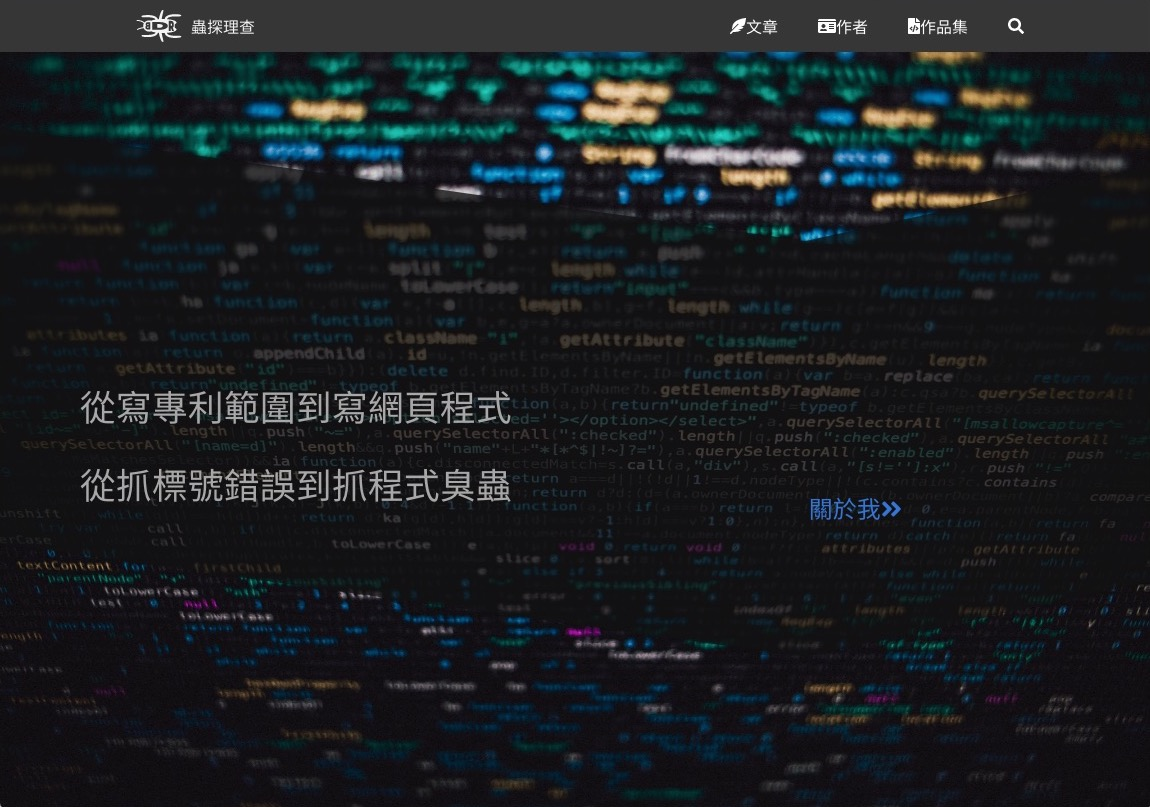
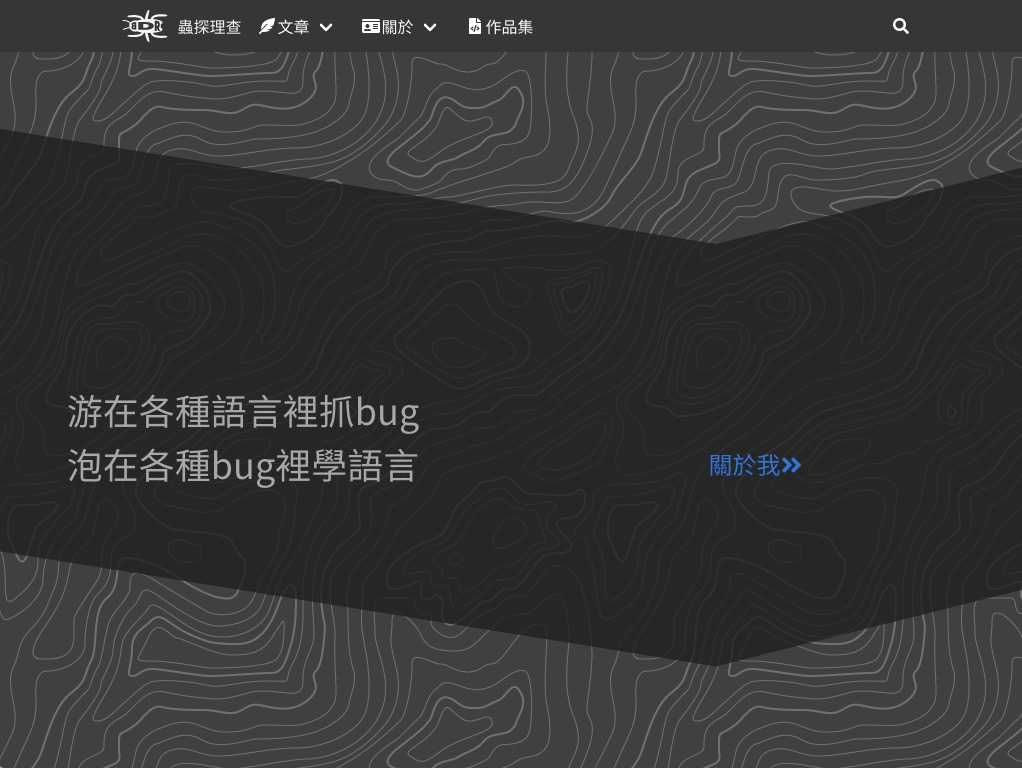
:zap: update: update slogan

diff --git a/src/pages/index.js b/src/pages/index.js
@@ -1,6 +1,5 @@
 import React from "react"
 import { graphql, useStaticQuery } from "gatsby"
-import { convertToBgImage } from "gbimage-bridge"
 import { getSrc } from "gatsby-plugin-image"
 import Layout from "../components/Layout/layout"
 import Seo from "../components/Seo/seo"
@@ -52,11 +51,6 @@ const IndexPage = () => {
             }
           }
         }
-        indexHeroImage: file(relativePath: { eq: "home-background.jpg" }) {
-          childImageSharp {
-            gatsbyImageData(transformOptions: { fit: COVER, cropFocus: CENTER })
-          }
-        }
         indexCapture: file(relativePath: { eq: "index-capture.jpg" }) {
           childImageSharp {
             gatsbyImageData(layout: FIXED)
@@ -71,15 +65,10 @@ const IndexPage = () => {
     `
   )
 
-  //第一個是手機用的圖片的object，第二個是桌面的圖片的object
-  //...是把object的大括號拆掉，和media的attribute接在一起。最後再包在大括號裡面，就是一個object了。
-  const imageData = data.indexHeroImage.childImageSharp.gatsbyImageData
-  const bgImage = convertToBgImage(imageData)
-
   // 要給seo用的，讓首頁被分享的時候有截圖
   const imageURLOfSeo =
     data.site.siteMetadata.siteUrl + getSrc(data.indexCapture.childImageSharp)
-  const slogan = ["從寫專利範圍到寫網站程式", "從抓標號錯誤到抓程式臭蟲"]
+  const slogan = ["浸泡在各種語言裡抓bug", "游走在各種bug間學語言"]
 
   //layout每一頁都有，裡面有navbar
   //seo用來處理metadata
@@ -95,7 +84,7 @@ const IndexPage = () => {
         pageURL="https://www.bdr.rocks/"
         isArticle={false}
       />
-      <HeroIndex bgImage={bgImage} slogan={slogan} />
+      <HeroIndex slogan={slogan} />
       <CardList>
         {data.allContentfulBlog.edges.map((element, i) => {
           // console.log('index',`index-page-${element.node.slug.toLowerCase()}`)
@@ -106,6 +95,7 @@ const IndexPage = () => {
             />
           )
         })}
+        
       </CardList>
       <div className="mt2">
         <SubscribeContainer />

diff --git a/gatsby-config.js b/gatsby-config.js
@@ -10,7 +10,7 @@ require("dotenv").config({
 module.exports = {
   siteMetadata: {
     title: `蟲探理查`,
-    description: `從寫專利範圍到寫網頁程式，從抓標號錯誤到抓程式臭蟲`,
+    description: `浸泡在各種語言裡抓bug，游走在各種bug間學語言`,
     author: `黃瑞成`,
     image: `/icons/icon-512x512.png`,
     siteUrl: `https://www.bdr.rocks`,
@@ -61,8 +61,7 @@ module.exports = {
     `gatsby-plugin-image`,
     `gatsby-plugin-sharp`,
     `gatsby-transformer-sharp`,
-    //這個是gatsby offline在用的plugin
-    //icon主要是用來顯示在標題列的圖案
+    //icon主要是給pwa用的
     {
       resolve: `gatsby-plugin-manifest`,
       options: {
@@ -71,11 +70,25 @@ module.exports = {
         start_url: `/`,
         background_color: `#663399`,
         theme_color: `#663399`,
-        display: `minimal-ui`,
+        display: `standalone`,
         icon: `src/images/icon.png`, // This path is relative to the root of the site.
+        icon_options: {
+          // For all the options available,
+          // please see the section "Additional Resources" below.
+          purpose: `any maskable`,
+        },
+        cache_busting_mode: 'none',
       },
     },
-    `gatsby-plugin-offline`,
+    //這個是gatsby offline在用的plugin
+    {
+      resolve: 'gatsby-plugin-offline',
+      options: {
+         workboxConfig: {
+            globPatterns: ['**/*.{svg,png}']
+         }
+      }
+   },
     //要處理svg的話要用這個plugin
     {
       resolve: "gatsby-plugin-react-svg",

diff --git a/src/components/Hero/HeroIndex.js b/src/components/Hero/HeroIndex.js
@@ -1,6 +1,5 @@
 import React from "react"
 import { Link } from "gatsby"
-// import BackgroundImage from "gatsby-background-image"
 import { FontAwesomeIcon } from "@fortawesome/react-fontawesome"
 import { faAngleDoubleRight } from "@fortawesome/free-solid-svg-icons"
 
@@ -8,7 +7,6 @@ import { faAngleDoubleRight } from "@fortawesome/free-solid-svg-icons"
 const HeroIndex = ({ slogan }) => {
   return (
     <section className="w-100">
-      
       <div className="hero is-fullheight-with-navbar hero-background-svg">
         <div className="w-100 h-100 absolute clip-path-hero flex flex-column justify-center">
           <div className="columns w-100">
@@ -24,7 +22,7 @@ const HeroIndex = ({ slogan }) => {
               <div className="mt2 mt5-ns">
                 <Link to="/about/#bio" replace={false} className="f3-l f4-m f5">
                   關於我
-                  <FontAwesomeIcon icon={faAngleDoubleRight} />
+                  <FontAwesomeIcon className="ml1" icon={faAngleDoubleRight} />
                 </Link>
               </div>
             </footer>

diff --git a/src/pages/404.js b/src/pages/404.js
@@ -1,29 +1,10 @@
 import React from "react"
-import { graphql, useStaticQuery } from "gatsby"
-import { convertToBgImage } from "gbimage-bridge"
-//import BackgroundImage from "gatsby-background-image"
 import Layout from "../components/Layout/layout"
 import Seo from "../components/Seo/seo"
 import GoBack from "../components/GoBack/GoBack"
 
 //用來放404的頁面
 const NotFoundPage = () => {
-  //用來抓404背景圖
-  const data = useStaticQuery(
-    graphql`
-      query fourZeroFourQuery {
-        fourZeroFourImage: file(relativePath: { eq: "404image.jpg" }) {
-          childImageSharp {
-            gatsbyImageData(transformOptions: { fit: COVER, cropFocus: CENTER })
-          }
-        }
-      }
-    `
-  )
-
-  //抓到的背景圖，分成手機和桌面，存成array，供傳給background image component來用
-  const imageData = data.fourZeroFourImage.childImageSharp.gatsbyImageData
-  const bgImage = convertToBgImage(imageData)
 
   //背景圖包住內容和一個回上一頁的按鈕
   return (

diff --git a/src/components/Card/CardList.js b/src/components/Card/CardList.js
@@ -1,4 +1,7 @@
 import React from "react"
+import { Link } from "gatsby"
+import { FontAwesomeIcon } from "@fortawesome/react-fontawesome"
+import { faAngleDoubleRight } from "@fortawesome/free-solid-svg-icons"
 
 //在indexpage中，用來裝cards的container
 const CardList = props => {
@@ -10,6 +13,12 @@ const CardList = props => {
       <section className="w-100 w-90-m w-80-l mw8 index-card-container pa3-ns pa2">
         {props.children}
       </section>
+      <footer className="w-100 w-90-m w-80-l mw8 ph3-ns mb3 pa2 tr">
+        <Link className="f4 pointer" to="/blog-list/page-3/">
+          較舊
+          <FontAwesomeIcon className="ml1" icon={faAngleDoubleRight} />
+        </Link>
+      </footer>
     </section>
   )
 }

diff --git a/src/components/Meter/MeterSlider.js b/src/components/Meter/MeterSlider.js
@@ -82,7 +82,8 @@ const MeterSlider = ({ fireNumber }) => {
           className="pr2 f6 f5-l"
           style={{ color: iceColor }}
         >
-          專業
+          <p>技術</p>
+          <p>專業</p>
         </span>
         <button
           key="meter-slide-button-ice"
@@ -105,7 +106,8 @@ const MeterSlider = ({ fireNumber }) => {
           className="pl2 f6 f5-l"
           style={{ color: fireColor }}
         >
-          生活
+          <p>生活</p>
+          <p>娛樂</p>
         </span>
       </div>
     </div>

diff --git a/src/components/Card/Card.js b/src/components/Card/Card.js
@@ -47,7 +47,7 @@ const Card = ({ node }) => {
         <footer className="pointer tr">
           <Link to={`/blog/${slug}/`}>
             更多
-            <FontAwesomeIcon icon={faAngleDoubleRight} />
+            <FontAwesomeIcon className="ml1" icon={faAngleDoubleRight} />
           </Link>
         </footer>
       </div>

diff --git a/gatsby-node.js b/gatsby-node.js
@@ -94,7 +94,7 @@ exports.createPages = async ({ actions, graphql, reporter }) => {
   })
 
   //postsPerPage可以設定每一頁放幾個文章
-  const postsPerPage = 5
+  const postsPerPage = 3
 
   //Math.ceil是無條件進入法，算出總頁數numPages
   const numPages = Math.ceil(posts.length / postsPerPage)
